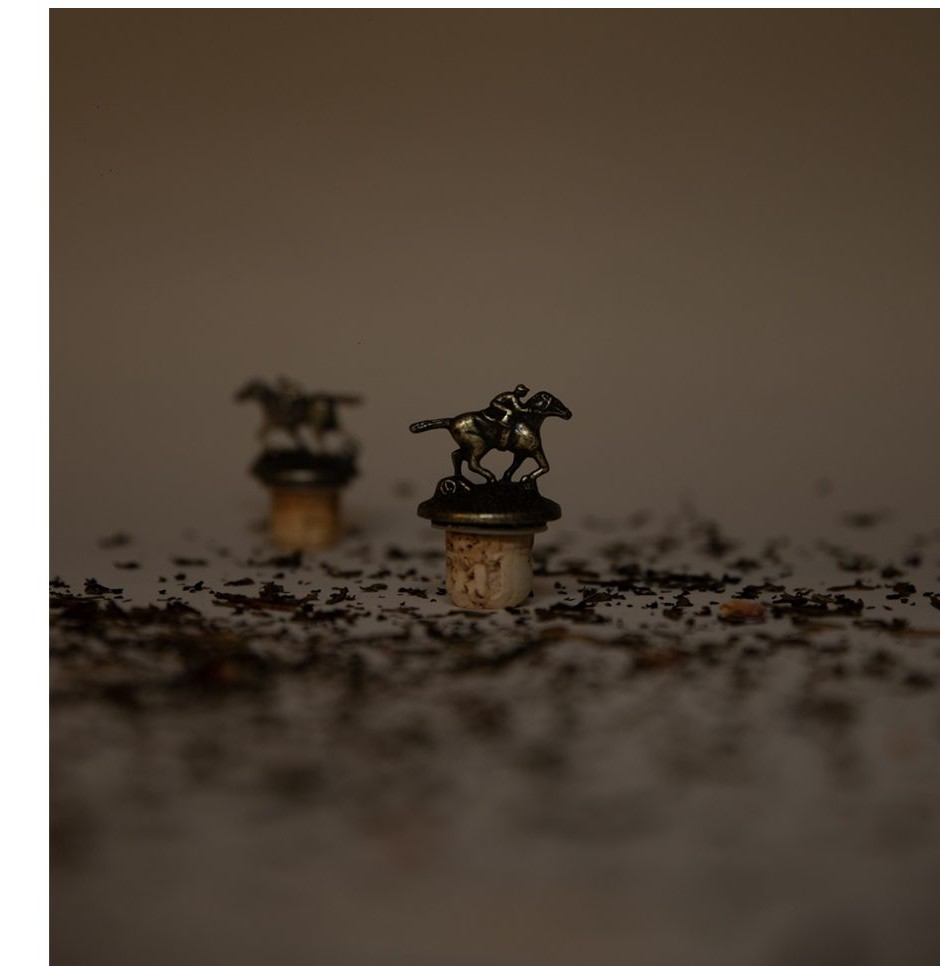
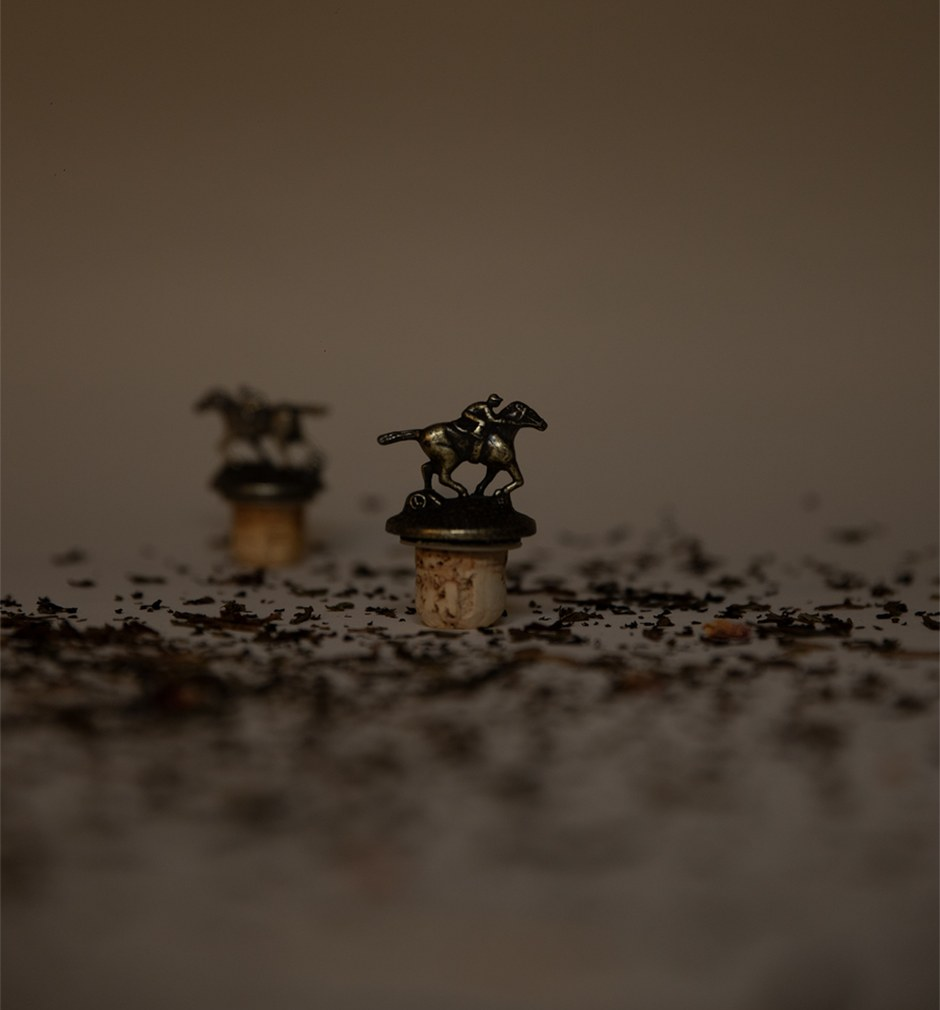
Studio : retrait des marges blanches du fichier IMG_7305_5

Changed region(s): [[0.0, 0.0, 1.0, 1.0], [0.4319, 0.7453, 0.4628, 0.7764], [0.2468, 0.7764, 0.2777, 0.8075]]

diff --git a/about.html b/about.html
@@ -1,5 +1,5 @@
 <!DOCTYPE html>
-<html lang="fr" data-build="20260828-0715">
+<html lang="fr" data-build="20260828-0750">
 <head>
 <meta charset="utf-8">
 <meta http-equiv="Cache-Control" content="no-cache, no-store, must-revalidate">

diff --git a/communication.html b/communication.html
@@ -1,5 +1,5 @@
 <!DOCTYPE html>
-<html lang="fr" data-build="20260828-0715">
+<html lang="fr" data-build="20260828-0750">
 <head>
 <meta charset="utf-8">
 <meta http-equiv="Cache-Control" content="no-cache, no-store, must-revalidate">

diff --git a/evenementiel.html b/evenementiel.html
@@ -1,5 +1,5 @@
 <!DOCTYPE html>
-<html lang="fr" data-build="20260828-0715">
+<html lang="fr" data-build="20260828-0750">
 <head>
 <meta charset="utf-8">
 <meta http-equiv="Cache-Control" content="no-cache, no-store, must-revalidate">

diff --git a/fashion.html b/fashion.html
@@ -1,5 +1,5 @@
 <!DOCTYPE html>
-<html lang="fr" data-build="20260828-0715">
+<html lang="fr" data-build="20260828-0750">
 <head>
 <meta charset="utf-8">
 <meta http-equiv="Cache-Control" content="no-cache, no-store, must-revalidate">

diff --git a/food.html b/food.html
@@ -1,5 +1,5 @@
 <!DOCTYPE html>
-<html lang="fr" data-build="20260828-0715">
+<html lang="fr" data-build="20260828-0750">
 <head>
 <meta charset="utf-8">
 <meta http-equiv="Cache-Control" content="no-cache, no-store, must-revalidate">

diff --git a/index.html b/index.html
@@ -1,5 +1,5 @@
 <!DOCTYPE html>
-<html lang="fr" data-build="20260828-0715">
+<html lang="fr" data-build="20260828-0750">
 <head>
 <meta charset="utf-8">
 <meta http-equiv="Cache-Control" content="no-cache, no-store, must-revalidate">

diff --git a/motion.html b/motion.html
@@ -1,5 +1,5 @@
 <!DOCTYPE html>
-<html lang="fr" data-build="20260828-0715">
+<html lang="fr" data-build="20260828-0750">
 <head>
 <meta charset="utf-8">
 <meta http-equiv="Cache-Control" content="no-cache, no-store, must-revalidate">

diff --git a/reseaux.html b/reseaux.html
@@ -1,5 +1,5 @@
 <!DOCTYPE html>
-<html lang="fr" data-build="20260828-0715">
+<html lang="fr" data-build="20260828-0750">
 <head>
 <meta charset="utf-8">
 <meta http-equiv="Cache-Control" content="no-cache, no-store, must-revalidate">

diff --git a/showreel.html b/showreel.html
@@ -1,5 +1,5 @@
 <!DOCTYPE html>
-<html lang="fr" data-build="20260828-0715">
+<html lang="fr" data-build="20260828-0750">
 <head>
 <meta charset="utf-8">
 <meta http-equiv="Cache-Control" content="no-cache, no-store, must-revalidate">

diff --git a/sport.html b/sport.html
@@ -1,5 +1,5 @@
 <!DOCTYPE html>
-<html lang="fr" data-build="20260828-0715">
+<html lang="fr" data-build="20260828-0750">
 <head>
 <meta charset="utf-8">
 <meta http-equiv="Cache-Control" content="no-cache, no-store, must-revalidate">

diff --git a/studio.html b/studio.html
@@ -1,5 +1,5 @@
 <!DOCTYPE html>
-<html lang="fr" data-build="20260828-0715">
+<html lang="fr" data-build="20260828-0750">
 <head>
 <meta charset="utf-8">
 <meta http-equiv="Cache-Control" content="no-cache, no-store, must-revalidate">
